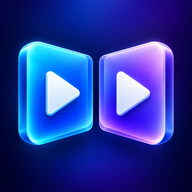
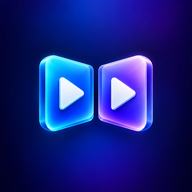
앱 아이콘 교체 (여백 있는 두 재생 버튼, 원형 마스크에서도 안 잘림)

diff --git a/web/sw.js b/web/sw.js
@@ -1,6 +1,6 @@
 // 오프라인 동작: 앱 파일을 캐시에 두고, 있으면 캐시로 바로 띄운 뒤 뒤에서 새 버전을 받아 둔다(다음 실행에 반영).
 // 사용자 파일은 여기를 지나지 않는다(blob URL·워커 메모리에서만 처리).
-const CACHE = 'g3d-v4';
+const CACHE = 'g3d-v5';
 const SHELL = ['./', 'index.html', 'app.js', 'worker.js', 'stereo.js', 'heic.js', 'g3d.mjs', 'g3d.wasm',
   'vendor/mediabunny.min.mjs', 'vendor/libheif-bundle.mjs', 'manifest.webmanifest',
   'icon-192.png', 'icon-512.png', 'icon-maskable-512.png'];
